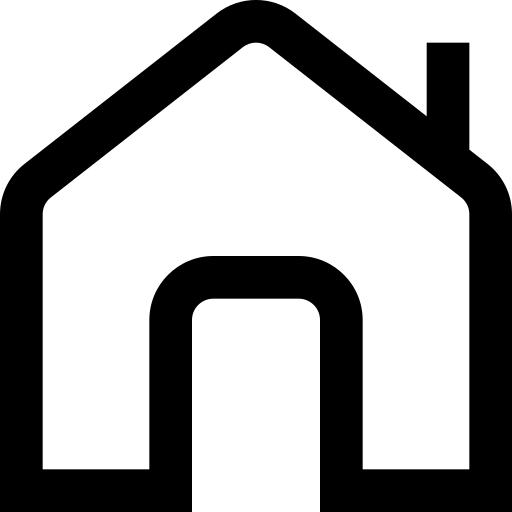
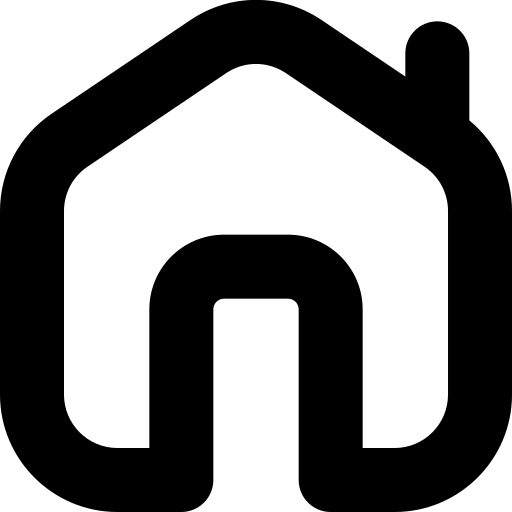
Updating Navbar

diff --git a/css/dashboard.css b/css/dashboard.css
@@ -1,3 +1,12 @@
+/* side when active */
+.active {
+    padding: 8px;
+    margin-right: -5px;
+    background-color: #fff;
+    border-radius: 10px;
+}
+/* tutup side when active */
+
 /* biodata */
 .main .border {
     display: flex;

diff --git a/template/navbar.php b/template/navbar.php
@@ -11,7 +11,7 @@
                 <!-- isi sidebar -->
                 <div class="isi">
                     <ul>
-                        <li><a href="../view/dashboard.php"><b>Halaman Utama</b></a></li>
+                        <li class="active"><a href="../view/dashboard.php"><img src="../image/home.png" style="width:15px; height:15px; margin-right:5px;"><b>Halaman Utama</b></a></li>
                         <li><a href=""><b>Tabel Siswa</b></a></li>
                         <li><a href=""><b>Tabel Petugas</b></a></li>
                         <li><a href=""><b>Tabel SPP</b></a></li>
@@ -21,7 +21,7 @@
                     </ul>
                 </div>
                 <div class="logout">
-                    <a href="../login/logout.php"><b>KELUAR</b></a>
+                    <a href="../login/logout.php"><img src="../image/logout.png" style="width:15px; height:15px; margin-right:5px;"><b>KELUAR</b></a>
                 </div>            
             </div>
         </nav>

diff --git a/view/dashboard.php b/view/dashboard.php
@@ -2,7 +2,7 @@
 session_start();
 error_reporting(0);
 if(!isset($_SESSION['username'])){
-    echo "<script>alert('kamuu jangan coba coba');window,location='login/login.php';</script>";
+    echo "<script>alert('kamuu jangan coba coba');window,location='../login/login.php';</script>";
 }
 
 
